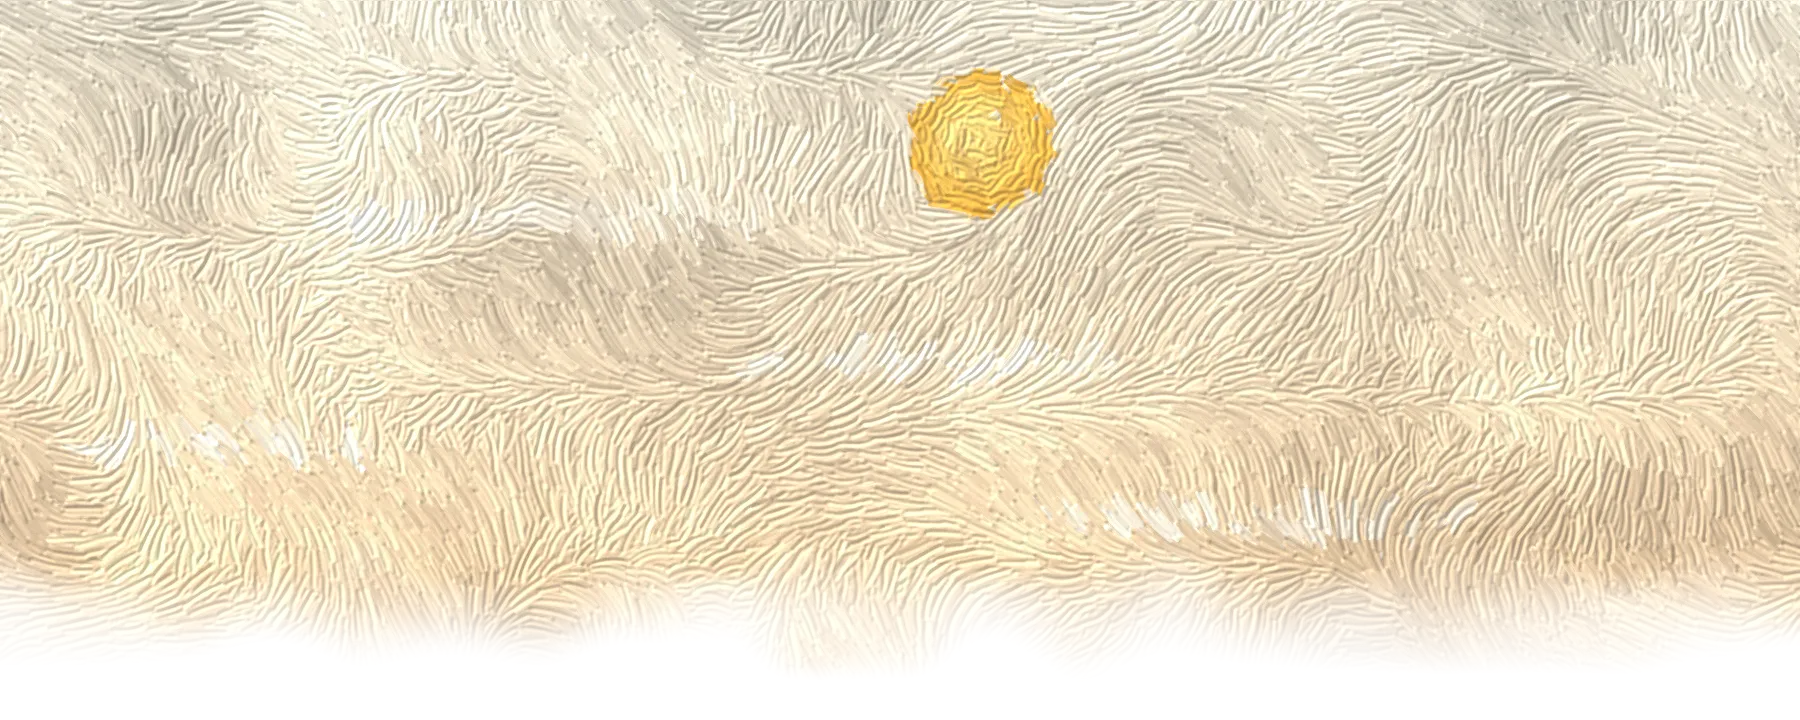
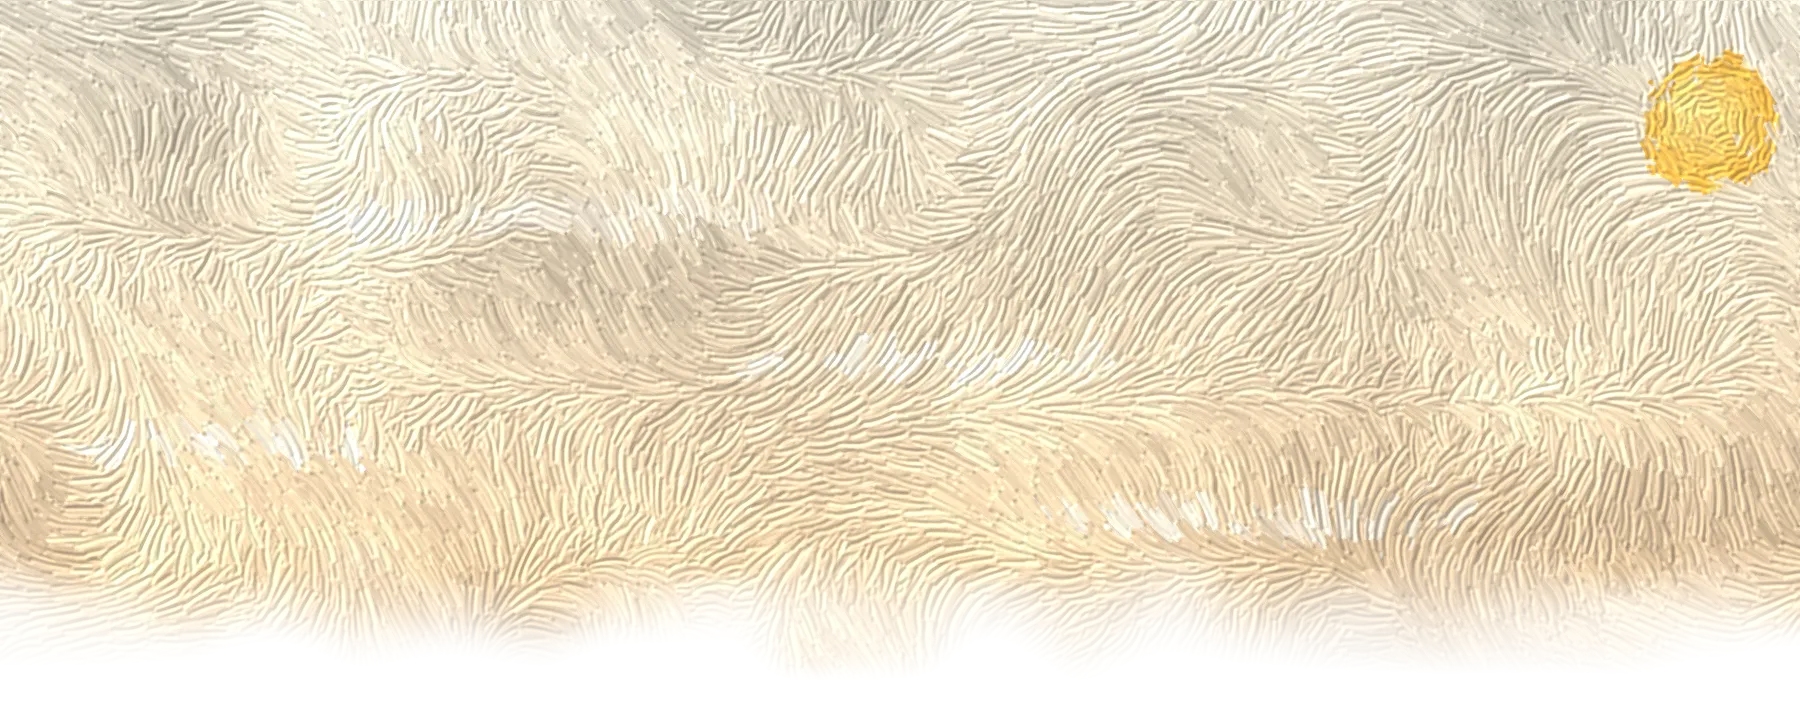
home fits one screen, sun in the corner, shorter page foot

Changed region(s): [[0.4978, 0.0917, 0.5911, 0.3056], [0.9022, 0.0611, 0.9956, 0.275]]

diff --git a/src/styles/global.css b/src/styles/global.css
@@ -80,7 +80,7 @@
   .page {
     background: var(--paper) top center / var(--paint-width) auto repeat-y;
     --meadow-height: calc(var(--paint-width) * 0.07);
-    padding-bottom: calc(var(--paint-width) * 0.085);
+    padding-bottom: calc(var(--paint-width) * 0.074);
   }
 
   .page-sky,
@@ -100,7 +100,7 @@
   }
 
   /* The home page's sky is taller and has the sun in it */
-  @media (min-width: 48rem) {
+  @media (min-width: 80rem) {
     .page-sky.sun {
       height: 17rem;
       background-image: var(--sky-top), var(--sky-tile);
@@ -110,7 +110,7 @@
 
   .page-ground {
     bottom: 0;
-    height: calc(var(--paint-width) * 0.14);
+    height: calc(var(--paint-width) * 0.115);
     background: var(--ground) bottom center / var(--paint-width) auto no-repeat;
     mask-image: linear-gradient(to bottom, transparent, #000 45%);
   }
